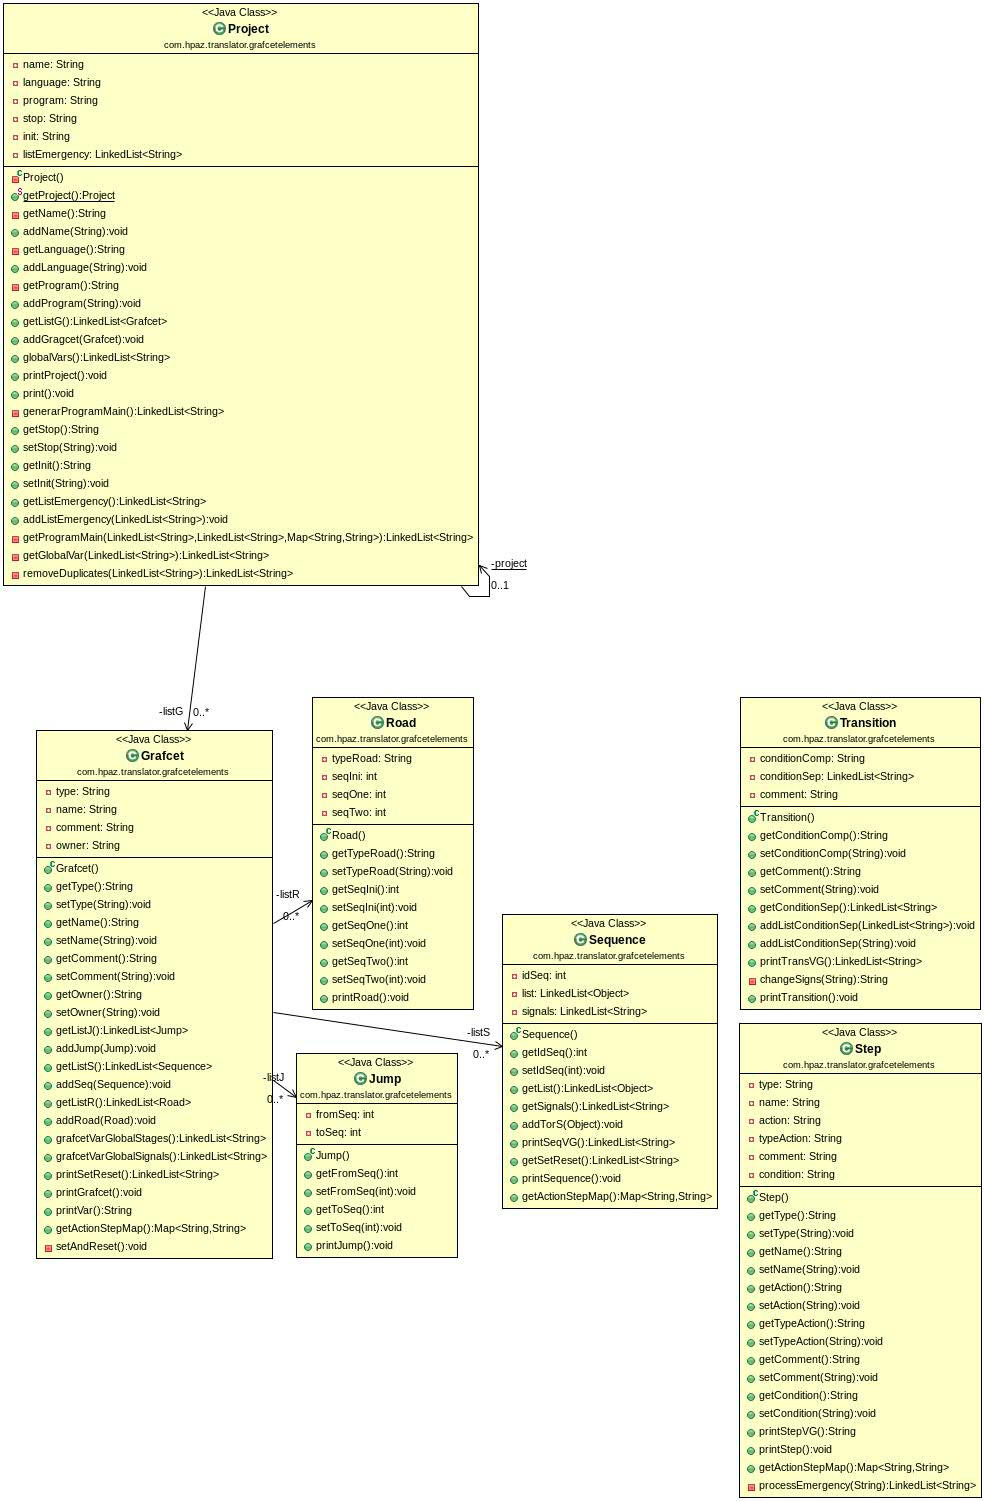
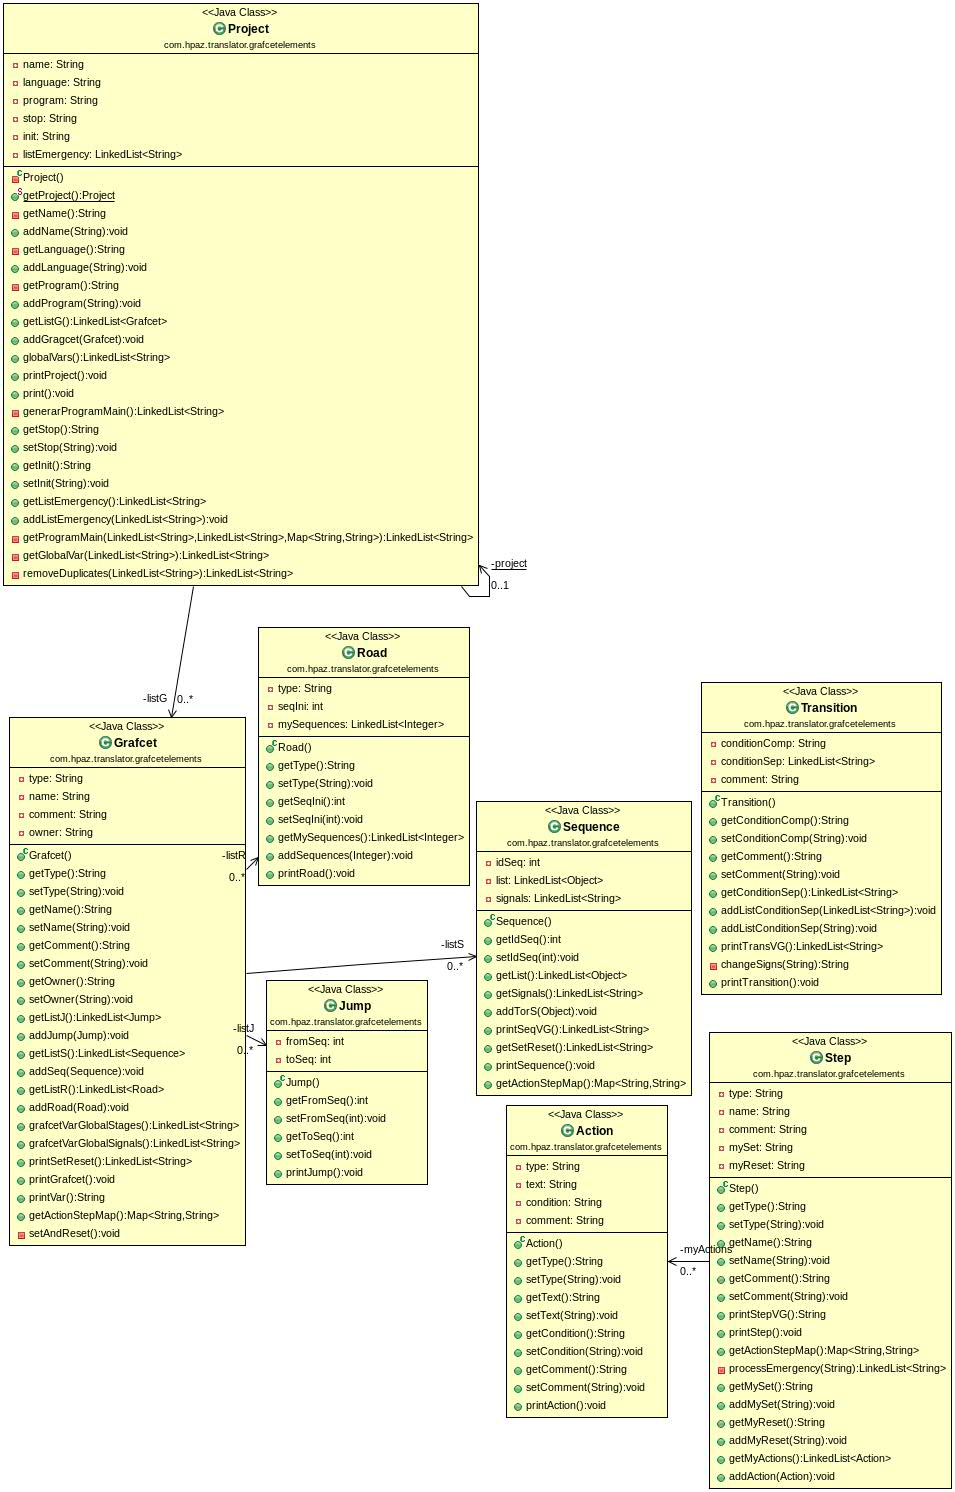
Modificaciones para obtener set y reset

Changed region(s): [[0.0, 0.0, 1.0, 1.0], [0.2126, 0.0, 0.3037, 0.0308], [0.9717, 0.7708, 1.0, 0.8016]]

diff --git a/src/com/hpaz/translator/grafcetelements/Grafcet.java b/src/com/hpaz/translator/grafcetelements/Grafcet.java
@@ -1,11 +1,9 @@
 package com.hpaz.translator.grafcetelements;
 
-import java.util.Collection;
 import java.util.HashMap;
 import java.util.LinkedList;
 import java.util.Map;
-import java.util.Set;
-import java.util.Map.Entry;
+
 
 public class Grafcet {
 	
@@ -63,9 +61,12 @@ public class Grafcet {
 	public LinkedList<Sequence> getListS() {
 		return listS;
 	}
-	/***/
-	public void addSeq(Sequence pS) {
-		this.listS.add(pS);
+	/**Recibe la secuencia y el numero de secuecia
+	 * rellenara la lista de seccuencias 
+	 * la posicion de la lista sera el numero de secuencia -1 */
+	public void addSeq(Sequence pS,int pIndex) {
+		/*la posicion de la lista sera el numero de secuencia -1 */
+		this.listS.add(pIndex-1, pS);
 	}
 	public LinkedList<Road> getListR() {
 		return listR;
@@ -112,6 +113,7 @@ public class Grafcet {
 		System.out.println("Tipo: "+this.type);
 		System.out.println("Propietario: "+this.owner);
 		System.out.println("Comentario: "+this.comment);
+		
 		for (Jump j : listJ) {
 			j.printJump();
 		}
@@ -166,16 +168,90 @@ public class Grafcet {
 		
 		return actionStepMap;	
 	}
-	
-	private void setAndReset(){
-		
-		
-		/*Miro si tiene caminos*/
-		if(listR.size()!=0){
-			//dependiendo de cuantos caminos tenga hare una cosa u otra?
-			
+	/**Esta funcion rellenara las listas PreviousStepLits, PreviousTransitionList
+	 * y getNextStepLits se cada secuencia, que nos serviran luego
+	 * a la hora de rellenar los set y reset de cada etapa*/
+	public void fillPreviousNextListsSequences(){
+		/*por cada salto */
+		for (Jump j : listJ) {
+			/*En un salto comienza siempre en una etapa por lo que guardo 
+			 * FromSeq salta a  ToSeq */
+			Sequence s = listS.get(j.getFromSeq());
+			int sizeTrans = s.getList().size()-1;
+			int sizeStep = s.getList().size()-2;
+			Transition t = (Transition) s.getList().get(sizeTrans);
+			Step step = (Step) s.getList().get(sizeStep);
+			/*Se guardara la ultima transision y etapa de la seq(fromSeq) en la seq(toSeq)*/
+			listS.get(j.getToSeq()).addPreviousSeq("("+step.getName()+" AND "+t.getConditionComp()+")");
 		}
+		/*Por cada camino que tengamos*/
+		for (Road r : listR) {
+			//por cada secuencia de la lista de caminos	
+			for (Integer sR : r.getMySequences()) {
+
+				Sequence sIni = listS.get(r.getSeqIni());
+				Sequence sSR = listS.get(sR);	
+				
+				/*Si el tipo es div or*/
+				if(r.getType().equals("div or")){
+					
+					/*Guardo en secuencia(sR) la ultima etapa de la secuencia(r.seqIni)*/
+					int sizeStep = sIni.getList().size()-1;
+					Step step = (Step) sIni.getList().get(sizeStep);
+					listS.get(sR).addPreviousSeq(step.getName());
+					
+					/*Guardar en la secuencia(r.SeqIni) la primera etapa de la secuencia(sR) */
+					Step step0 = (Step) sSR.getList().get(0);
+					listS.get(r.getSeqIni()).addNextSeq(step0.getName());
+					
+					
+					/*Si el tipo es div and*/
+				}else if(r.getType().equals("div and")){
+					
+					/*Guardo en secuencia(sR) la ultima etapa y transicion de la secuencia(r.seqIni)*/
+					int sizeTrans = sIni.getList().size()-1;				
+					Transition t = (Transition) sIni.getList().get(sizeTrans);
+					int sizeStep = sIni.getList().size()-2;
+					Step step = (Step) sIni.getList().get(sizeStep);
+					listS.get(sR).addPreviousSeq("("+step.getName()+" AND "+t.getConditionComp()+")");
+					
+					/*Guardar en la secuencia(r.SeqIni) la primera etapa de la secuencia(sR) */
+					Step step0 = (Step) sSR.getList().get(0);
+					listS.get(r.getSeqIni()).addNextSeq(step0.getName());
+					
+					
+					/*Si el tipo es conv or*/
+				}else if (r.getType().equals("conv or")){
+
+					/*Guardo en la secuencia(sR) la primera etapa de la secuencia(r.seqIni)*/
+					Step step = (Step) sIni.getList().get(0);
+					listS.get(sR).addNextSeq(step.getName());
+					
+					/*Guardar en la secuencia(r.SeqIni) la ultima transicion de secuencia(sR) */
+					int sizeTrans = sSR.getList().size()-1;				
+					Transition t = (Transition) sIni.getList().get(sizeTrans);
+					listS.get(r.getSeqIni()).addPreviousSeq(t.getConditionComp());
+					
+					
+					
+					/*Si el tipo es conv or*/
+				} else if(r.getType().equals("conv and")){
+					
+					/*Guardo en la secuencia(sR) la primera etapa de la secuencia(r.seqIni)*/
+					Step step = (Step) sIni.getList().get(0);
+					listS.get(sR).addNextSeq(step.getName());
+					
+					/*Guardar en la secuencia(r.SeqIni) la ultima etapa de secuencia(sR) */
+					int sizeStep = sSR.getList().size()-1;
+					Step step0 = (Step) sSR.getList().get(sizeStep);
+					listS.get(r.getSeqIni()).addPreviousSeq(step0.getName());
+				}
+			}
+		}
+		
 	}
+	
+	
 	
 	
 }

diff --git a/src/com/hpaz/translator/grafcetelements/Sequence.java b/src/com/hpaz/translator/grafcetelements/Sequence.java
@@ -9,6 +9,12 @@ public class Sequence {
 	private int idSeq;
 	private LinkedList<Object> list;// puede tener tanto transiciones como pasos
 	private LinkedList<String> signals; 
+	/*private LinkedList<String> previousStepLits;  
+	private LinkedList<String> previousTransitionList; 
+	private LinkedList<String> nextStepLits; */
+	
+	private LinkedList<String> previousList; 
+	private LinkedList<String> nextLits; 
 	
 	public Sequence() {
 		list = new LinkedList<Object>();
@@ -94,6 +100,37 @@ public class Sequence {
 		}
 		//devuelvo el map unido 
 		return actionStepMap;	
+	}
+/*	public LinkedList<String> getPreviousStepLits() {
+		return previousStepLits;
+	}
+	public void addPreviousStepLits(String previousStep) {
+		this.previousStepLits.add(previousStep);
+	}
+	public LinkedList<String> getPreviousTransitionList() {
+		return previousTransitionList;
+	}
+	public void addPreviousTransitionList(String previousTransition) {
+		this.previousTransitionList.add(previousTransition);
+	}
+	public LinkedList<String> getNextStepLits() {
+		return nextStepLits;
+	}
+	public void addNextStepLits(String nextStep) {
+		this.nextStepLits.add(nextStep);
+	}
+*/
+	public LinkedList<String> getPreviousList() {
+		return previousList;
+	}
+	public void addPreviousSeq(String previousSeq) {
+		this.previousList.add(previousSeq);
+	}
+	public LinkedList<String> getNextLits() {
+		return nextLits;
+	}
+	public void addNextSeq(String nextSeq) {
+		this.nextLits.add(nextSeq);
 	}
 	
 }

diff --git a/src/com/hpaz/translator/grafcetelements/Step.java b/src/com/hpaz/translator/grafcetelements/Step.java
@@ -16,14 +16,6 @@ public class Step {
 	private String mySet;
 	private String myReset;
 	
-	
-	/*MODIFICAR PARA Q TENGA UNA LISTA DE LA CLASE ACTION*/
-	/*DEBE SER UNA LISTA YA Q PUEDE TENER MAS DE UNA ACCCION*/
-	//private String action;
-	/*DEBE SER UNA LISTA YA Q PUEDE TENER MAS DE UNA ACCCION Y PUDE SER D DISTINTO TIPO*/
-	//private String typeAction;
-	//private String condition; // segun el tipo de accion tiene condicion o no
-	
 	private LinkedList<Action> myActions;
 
 	public Step() {
@@ -33,9 +25,6 @@ public class Step {
 		this.mySet=null;
 		this.myReset=null;
 		this.myActions = new LinkedList<Action>();
-		/*		this.action = "";
-		this.typeAction = "";
-		this.condition = "";*/
 	}
 
 	public String getType() {
@@ -61,29 +50,6 @@ public class Step {
 	public void setComment(String comment) {
 		this.comment = comment;
 	}
-/*
-	public String getAction() {
-		return action;
-	}
-
-	public void setAction(String action) {
-		this.action = action;
-	}
-
-	public String getTypeAction() {
-		return typeAction;
-	}
-
-	public void setTypeAction(String typeAction) {
-		this.typeAction = typeAction;
-	}
-	public String getCondition() {
-		return condition;
-	}
-
-	public void setCondition(String condition) {
-		this.condition = condition;
-	}*/
 	
 	public String printStepVG() {
 		String s = "\t" + this.name + "\t: BOOL;\n";

diff --git a/src/com/hpaz/translator/preprocess/Preprocess.java b/src/com/hpaz/translator/preprocess/Preprocess.java
@@ -42,6 +42,7 @@ public class Preprocess extends DefaultHandler {
 	private String language;// el lenguaje al que se quiere pasar
 	private String nameProject;
 	private String compatibility;
+	private int actualSequence;
 
 	/*private static Preprocess myPreprocess;*/
 	
@@ -54,6 +55,7 @@ public class Preprocess extends DefaultHandler {
 		isTransition = false;
 		previousTag = "";
 		compatibility=pCompatibility;
+		this.actualSequence=0;
 	}
 	
 	// si no existe el preproceso lo creo
@@ -289,7 +291,8 @@ public class Preprocess extends DefaultHandler {
 
 		if (actualTag.equals(GrafcetTagsConstants.SEQUENCE_TAG)) {// Sequence
 			// añado la secuencia al grafcet
-			grafcet.addSeq(sequence);
+			grafcet.addSeq(sequence,actualSequence);
+			actualSequence=0;
 			
 		}else if (actualTag.equals(GrafcetTagsConstants.ACTION_TAG)) { // Action
 			// añado la accion al step
@@ -353,6 +356,7 @@ public class Preprocess extends DefaultHandler {
 			
 		} else if (actualTag.equals(GrafcetTagsConstants.SEQUENCE_TAG)) {// Sequence
 			// añado el id
+			actualSequence=Integer.parseInt(pAtt);
 			sequence.setIdSeq(Integer.parseInt(pAtt));
 			
 		} else if (actualTag.equals(GrafcetTagsConstants.STEP_TAG)) {// Step
